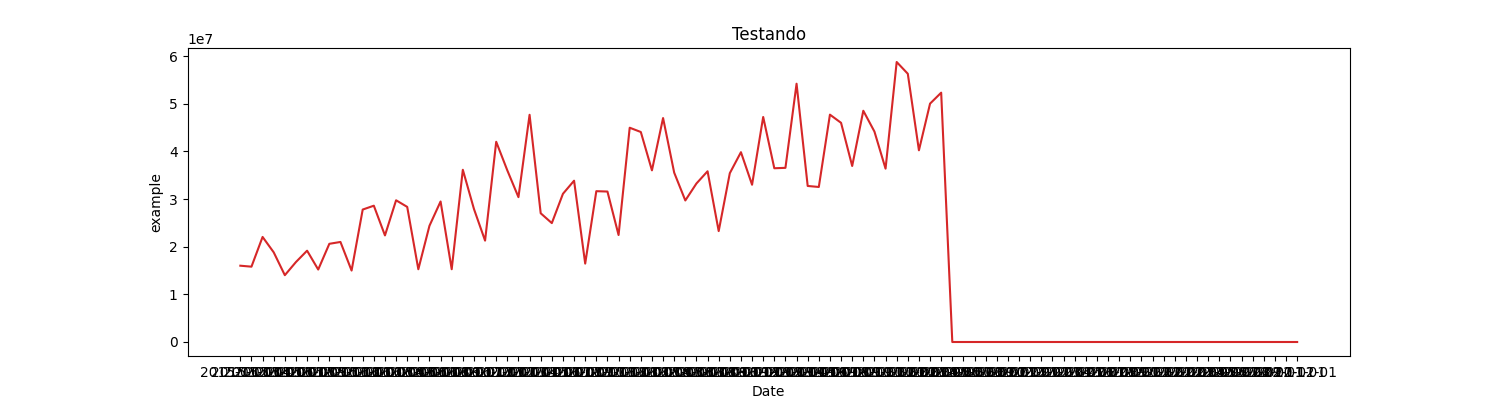
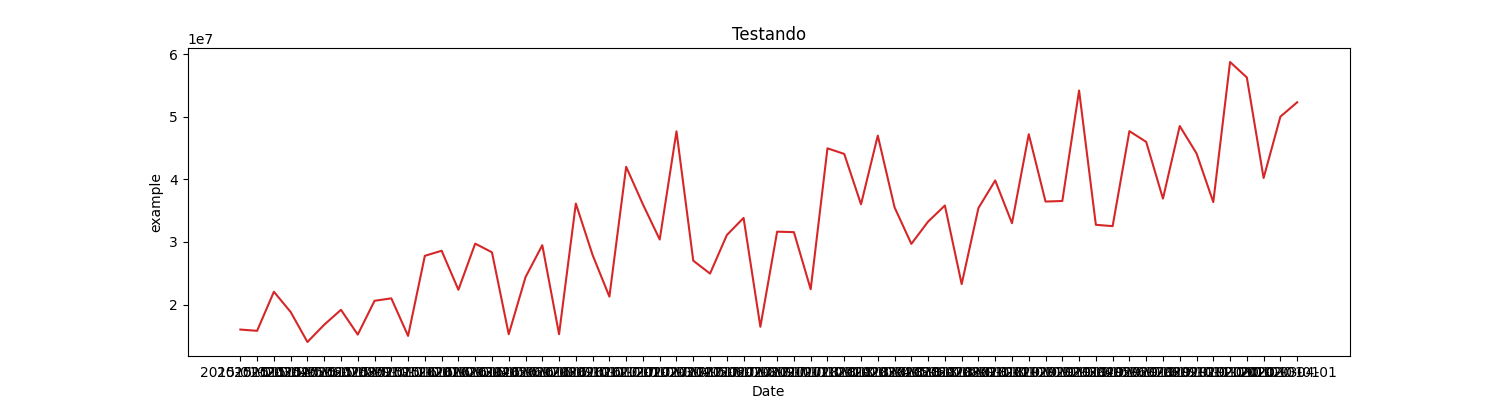
Preparação para as próximas etapas

diff --git a/hackathon/resources/views/edit_csv/form.blade.php b/hackathon/resources/views/edit_csv/form.blade.php
@@ -1,13 +1,13 @@
 <div class="flex flex-col h-full items-center">
-    <h1 class="text-xl mb-4">Ajeitando os dados</h1>
+    <h1 class="text-xl mb-4 mt-4 font-semibold">Metamodelo</h1>
     <form action="{{ route('csv.update') }}" method="POST" 
-          class="flex flex-col overflow-y-auto h-full p-4 border border-b-[#D94929] rounded-lg">
+          class="flex flex-col overflow-y-auto h-full p-4 border border-[#D94929] rounded-lg">
         @csrf
         <input value="{{ $name }}" name="table_name" type="text" hidden>
         @foreach ($collection as $key => $item)
-            <div class="flex flex-col border-b-2 border-b-[#D94929] mb-4">
+            <div class="flex flex-col border-b-2 border-b-[#D94929] mb-4 p-4">
                 <div class="flex justify-between items-center">
-                    <label class="text-gray-700">{{ $key }}</label>
+                    <label class="text-gray-700 mr-2 font-bold">{{ $key }}</label>
                     <input 
                         name="{{ $key . '_type' }}" 
                         type="text" 
@@ -15,14 +15,14 @@
                         class="border border-gray-300 rounded-lg p-2">
                 </div>
                 <div class="flex items-center mt-2">
-                    <input type="checkbox" name="{{ $key . '_checkbox' }}">
+                    <input type="checkbox" name="{{ $key . '_checkbox' }}" class="w-4 h-4 text-[#D94929] bg-gray-100 border-gray-300 rounded focus:ring-[#D94929] dark:focus:ring-[#D94929] dark:ring-offset-gray-800 focus:ring-2 dark:bg-gray-700 dark:border-gray-600">
                     <label for="default-checkbox" 
                            class="ms-2 text-sm font-medium text-gray-900 dark:text-gray-300">
                         Feature de Tempo
                     </label>
                 </div>
                 <div class="flex items-center mt-2">
-                    <input type="checkbox" name="{{ $key . '_americanformat' }}">
+                    <input type="checkbox" name="{{ $key . '_americanformat' }}" class="w-4 h-4 text-[#D94929] bg-gray-100 border-gray-300 rounded focus:ring-[#D94929] dark:focus:ring-[#D94929] dark:ring-offset-gray-800 focus:ring-2 dark:bg-gray-700 dark:border-gray-600">
                     <label for="default-checkbox" 
                            class="ms-2 text-sm font-medium text-gray-900 dark:text-gray-300">
                         É formato americano ?

diff --git a/hackathon/resources/views/launch/index.blade.php b/hackathon/resources/views/launch/index.blade.php
@@ -1,0 +1,36 @@
+@extends('layouts.app')
+
+@section('title', 'Upload Dataset')
+
+@section('content')
+    
+<form action="{{ route('table.display') }}" method="GET">
+    <div class="mb-6 text-center">
+        <p class="text-md font-medium text-gray-700 dark:text-gray-400 mt-2">
+            Escolha uma <span class="font-bold">coluna</span> e o respectivo <span class="font-bold">valor</span> para ser lançado.
+        </p>
+    </div>
+    <div id="dropzone-container" class="flex flex-col items-center justify-center w-full">
+        <div class="w-full">
+            <div class="max-w-sm mx-auto mb-4">
+                <label for="countries" class="block mb-2 text-sm font-medium text-gray-900 dark:text-white">Selecione uma coluna</label>
+                <select id="countries" class="bg-gray-50 border border-gray-300 text-gray-900 text-sm rounded-lg focus:ring-blue-500 focus:border-blue-500 block w-full p-2.5 dark:bg-gray-700 dark:border-gray-600 dark:placeholder-gray-400 dark:text-white dark:focus:ring-blue-500 dark:focus:border-blue-500">
+                  <option selected>Choose a country</option>
+                  <option value="US">United States</option>
+                  <option value="CA">Canada</option>
+                  <option value="FR">France</option>
+                  <option value="DE">Germany</option>
+                </select>
+            </div>
+            <div class="mb-1">
+                <label for="name_table" class="block mb-2 text-sm font-medium text-gray-900 dark:text-white">Digite o valor</label>
+                <input type="text" id="first_name" class="bg-gray-50 border border-gray-300 text-gray-900 text-sm rounded-lg focus:ring-blue-500 focus:border-blue-500 block w-full p-2.5 dark:bg-gray-700 dark:border-gray-600 dark:placeholder-gray-400 dark:text-white dark:focus:ring-blue-500 dark:focus:border-blue-500" placeholder="John" required />
+            </div>
+        </div>
+        <button class="bg-[#f27830] font-medium p-3 mt-4 rounded-lg hover:bg-[#d94929]" type="submit">
+            Lançar valor
+        </button>
+    </div>
+</form>
+
+@endsection

diff --git a/hackathon/resources/views/validation/form.blade.php b/hackathon/resources/views/validation/form.blade.php
@@ -1,0 +1,35 @@
+<div class="flex flex-col h-full items-center">
+    <h1 class="text-xl mb-4 mt-4 font-semibold">Regras de Produção</h1>
+    <form action="{{ route('csv.update') }}" method="POST" 
+          class="flex flex-col overflow-y-auto p-4 border border-[#D94929] rounded-lg">
+        @csrf
+        <input name="" type="text" hidden>
+        
+            <div class="flex flex-col border-b-2 border-b-[#D94929] mb-4 p-4">
+                <div class="flex justify-between items-center">
+                    O lançamento não pode ser 
+                    <span><input name="" type="text" value="" class="border border-gray-300 rounded-lg p-2"></span>
+                    superior em relação à curva de .
+                </div>
+            </div>
+            <div class="flex flex-col border-b-2 border-b-[#D94929] mb-4 p-4">
+                <div class="flex justify-between items-center">
+                    O lançamento não pode ser 
+                    <span><input name="" type="text" value="" class="border border-gray-300 rounded-lg p-2"></span>
+                    superior em relação à média dos lançamentos anteriores.
+                </div>
+            </div>
+            <div class="flex flex-col border-b-2 border-b-[#D94929] mb-4 p-4">
+                <div class="flex justify-between items-center">
+                    O lançamento não pode ser 
+                    <span><input name="" type="text" value="" class="border border-gray-300 rounded-lg p-2"></span>
+                    superior em relação ao lançamento anterior.
+                </div>
+            </div>
+        
+        <button type="submit" 
+                class="text-white bg-gradient-to-br from-pink-500 to-orange-400 hover:bg-gradient-to-bl focus:ring-4 focus:outline-none focus:ring-pink-200 dark:focus:ring-pink-800 font-medium rounded-lg text-sm px-5 py-2.5 text-center me-2 mb-2">
+            Submeter produções
+        </button>
+    </form>
+</div>

diff --git a/hackathon/resources/views/filter/form.blade.php b/hackathon/resources/views/filter/form.blade.php
@@ -1,0 +1,22 @@
+<div class="flex flex-col h-full items-center">
+    <h1 class="text-xl mb-4 mt-4 font-semibold">Filtro</h1>
+    <form action="{{ route('csv.update') }}" method="POST" 
+          class="flex flex-col overflow-y-auto p-4 border border-[#D94929] rounded-lg">
+        @csrf
+        <input name="" type="text" hidden>
+        
+            <div class="flex flex-col border-b-2 border-b-[#D94929] mb-4 p-4">
+                <div class="flex justify-between items-center">
+                    <label class="text-gray-700 mr-2 font-bold">Coluna</label>
+                    <input placeholder="<" name="" type="text" value="" class="border border-gray-300 rounded-lg p-2">
+                    <input placeholder="20" name="" type="text" value="" class="border border-gray-300 rounded-lg p-2">
+                </div>
+            </div>
+            
+        
+        <button type="submit" 
+                class="text-white bg-gradient-to-br from-pink-500 to-orange-400 hover:bg-gradient-to-bl focus:ring-4 focus:outline-none focus:ring-pink-200 dark:focus:ring-pink-800 font-medium rounded-lg text-sm px-5 py-2.5 text-center me-2 mb-2">
+            Submeter produções
+        </button>
+    </form>
+</div>

diff --git a/hackathon/routes/web.php b/hackathon/routes/web.php
@@ -5,6 +5,9 @@ use App\Http\Controllers\UploadController;
 use App\Http\Controllers\TableController;
 use App\Http\Controllers\ManipulateDataController;
 use App\Http\Controllers\GraphController;
+use App\Http\Controllers\ValidationController;
+use App\Http\Controllers\FilterController;
+use App\Http\Controllers\LaunchController;
 
 use Illuminate\Support\Facades\Http;
 
@@ -37,3 +40,9 @@ Route::get('/form-edit-data/{name}', [ManipulateDataController::class, 'index'])
 Route::post('/form-edit-data/update', [ManipulateDataController::class, 'update'])->name('csv.update');
 
 Route::get('/graph', [GraphController::class, 'retrieve_graph'])->name('graph.retrieve');
+
+Route::get('/regras-validacao', [ValidationController::class, 'index'])->name('validation.index');
+
+Route::get('/filtro', [FilterController::class, 'index'])->name('filter.index');
+
+Route::get('/lancamento', [LaunchController::class, 'index'])->name('laucnh.index');

diff --git a/python_api/main.py b/python_api/main.py
@@ -69,12 +69,14 @@ def format_data():
     configs = request.args.get('values')
     data = json.loads(configs)
 
-    filename = request.args.get('name')
+    filename = request.args.get('name').strip('"')
+    # print("==========================")
+    # print(filename)
 
     df = export_table_to_csv_from_db(filename)
     df, column_name = format_types(df, data)
 
-    df.to_csv("temp_storage.csv")
+    df.to_csv(f"./csv/{filename}.csv")
 
     insert_value(filename, column_name)
 
@@ -103,7 +105,7 @@ def generate_graphics_route():
     # Obtendo os resultados
     time_column = cursor.fetchall()[0][1]
     print(time_column)
-    data_frame = pd.read_csv("yan.csv", header=0)
+    data_frame = pd.read_csv(f"./csv/{file_name}.csv", header=0)
     generate_graphics(data_frame[time_column], data_frame['Revenue'], title="Testando", filename=file_name)
     
     path = f"{file_name}.png"

diff --git a/hackathon/resources/views/display/show.blade.php b/hackathon/resources/views/display/show.blade.php
@@ -19,6 +19,7 @@
     <div class="container mx-auto w-full">
         <div class="flex flex-col items-center w-full justify-center min-h-screen bg-[#f2a649]">
             <h1 class="text-lg font-medium mb-4 mt-4">CSV: <span class="font-bold">{{ request('name_table') }}</span></h1>
+            <p class="text-lg font-medium mb-4 mt-4">Impressão do CSV após remover linhas com valores <span class="font-bold">nan</span>.</p>
             <div class="w-full max-w-6xl bg-white shadow-md rounded-lg p-6">
                 <x-table :columns="$columns" :values="$values"></x-table>
             </div>

diff --git a/hackathon/resources/views/graph/index.blade.php b/hackathon/resources/views/graph/index.blade.php
@@ -4,8 +4,15 @@
 
 @section('content')
     
-<h1>Imagem do gráfico...</h1>
-<p>{{ $path }}</p>
-<img src="{{ asset("img/" . $path) }}" alt="">
+<h1></h1>
+<div class="flex flex-col">
+    <div class="mb-6 text-center">
+        <h1 class="text-2xl font-bold text-black-700 dark:text-gray-300">Gráfico da Série Temporal</h1>
+        <p class="text-md font-medium text-gray-700 dark:text-gray-400 mt-2">
+            {{ $file_name }}
+        </p>
+    </div>
+    <img class="" src="{{ asset("img/" . $path) }}" alt="">
+</div>
 
 @endsection

diff --git a/python_api/store_csv.py b/python_api/store_csv.py
@@ -28,7 +28,7 @@ Função auxiliar para realizar o armazenamento de um CSV dentro da Database.
 """
 def store_csv_in_database(df: pd.DataFrame, filename: str):
     
-    df = df.fillna(-1) # PREENCHE VALORES NAN COMO -1
+    df = df.dropna() # PREENCHE VALORES NAN COMO -1
     
     db_connection = mysql.connector.connect(
         host="127.0.0.1",

diff --git a/hackathon/app/Http/Controllers/ValidationController.php b/hackathon/app/Http/Controllers/ValidationController.php
@@ -1,0 +1,12 @@
+<?php
+
+namespace App\Http\Controllers;
+
+use Illuminate\Http\Request;
+
+class ValidationController extends Controller
+{
+    public function index(Request $request){
+        return view('validation.index');
+    }
+}

diff --git a/hackathon/app/Http/Controllers/LaunchController.php b/hackathon/app/Http/Controllers/LaunchController.php
@@ -1,0 +1,12 @@
+<?php
+
+namespace App\Http\Controllers;
+
+use Illuminate\Http\Request;
+
+class LaunchController extends Controller
+{
+    public function index(Request $request){
+        return view('launch.index');
+    }
+}

diff --git a/hackathon/app/Http/Controllers/FilterController.php b/hackathon/app/Http/Controllers/FilterController.php
@@ -1,0 +1,12 @@
+<?php
+
+namespace App\Http\Controllers;
+
+use Illuminate\Http\Request;
+
+class FilterController extends Controller
+{
+    public function index(){
+        return view('filter.index');
+    }
+}
